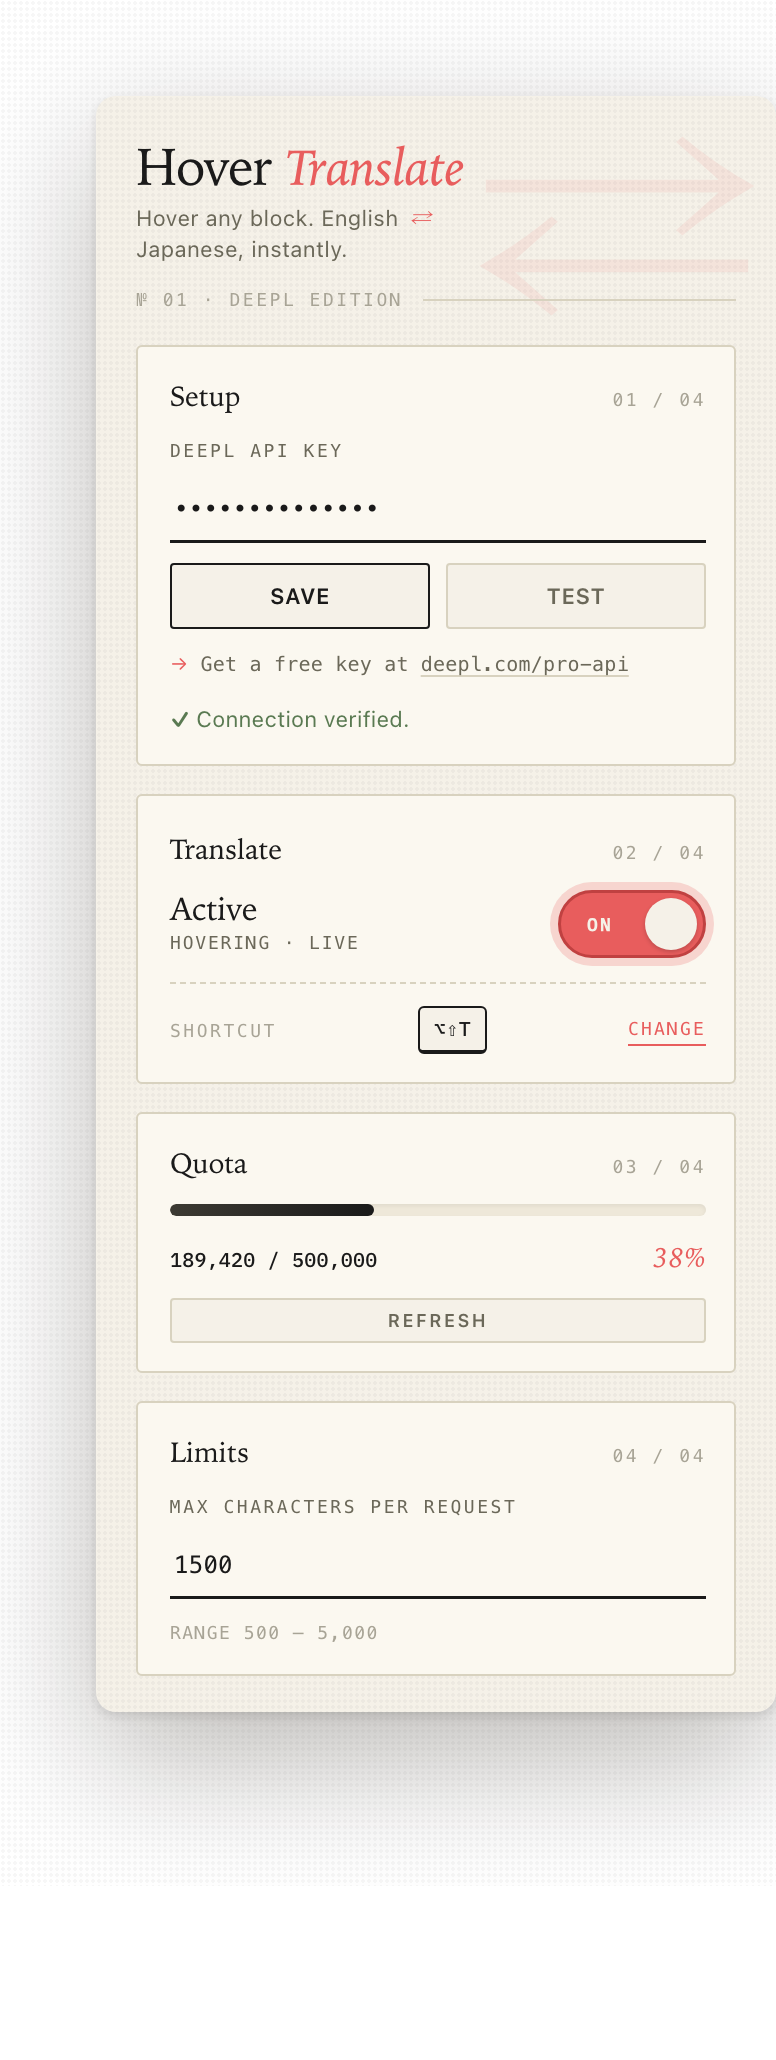
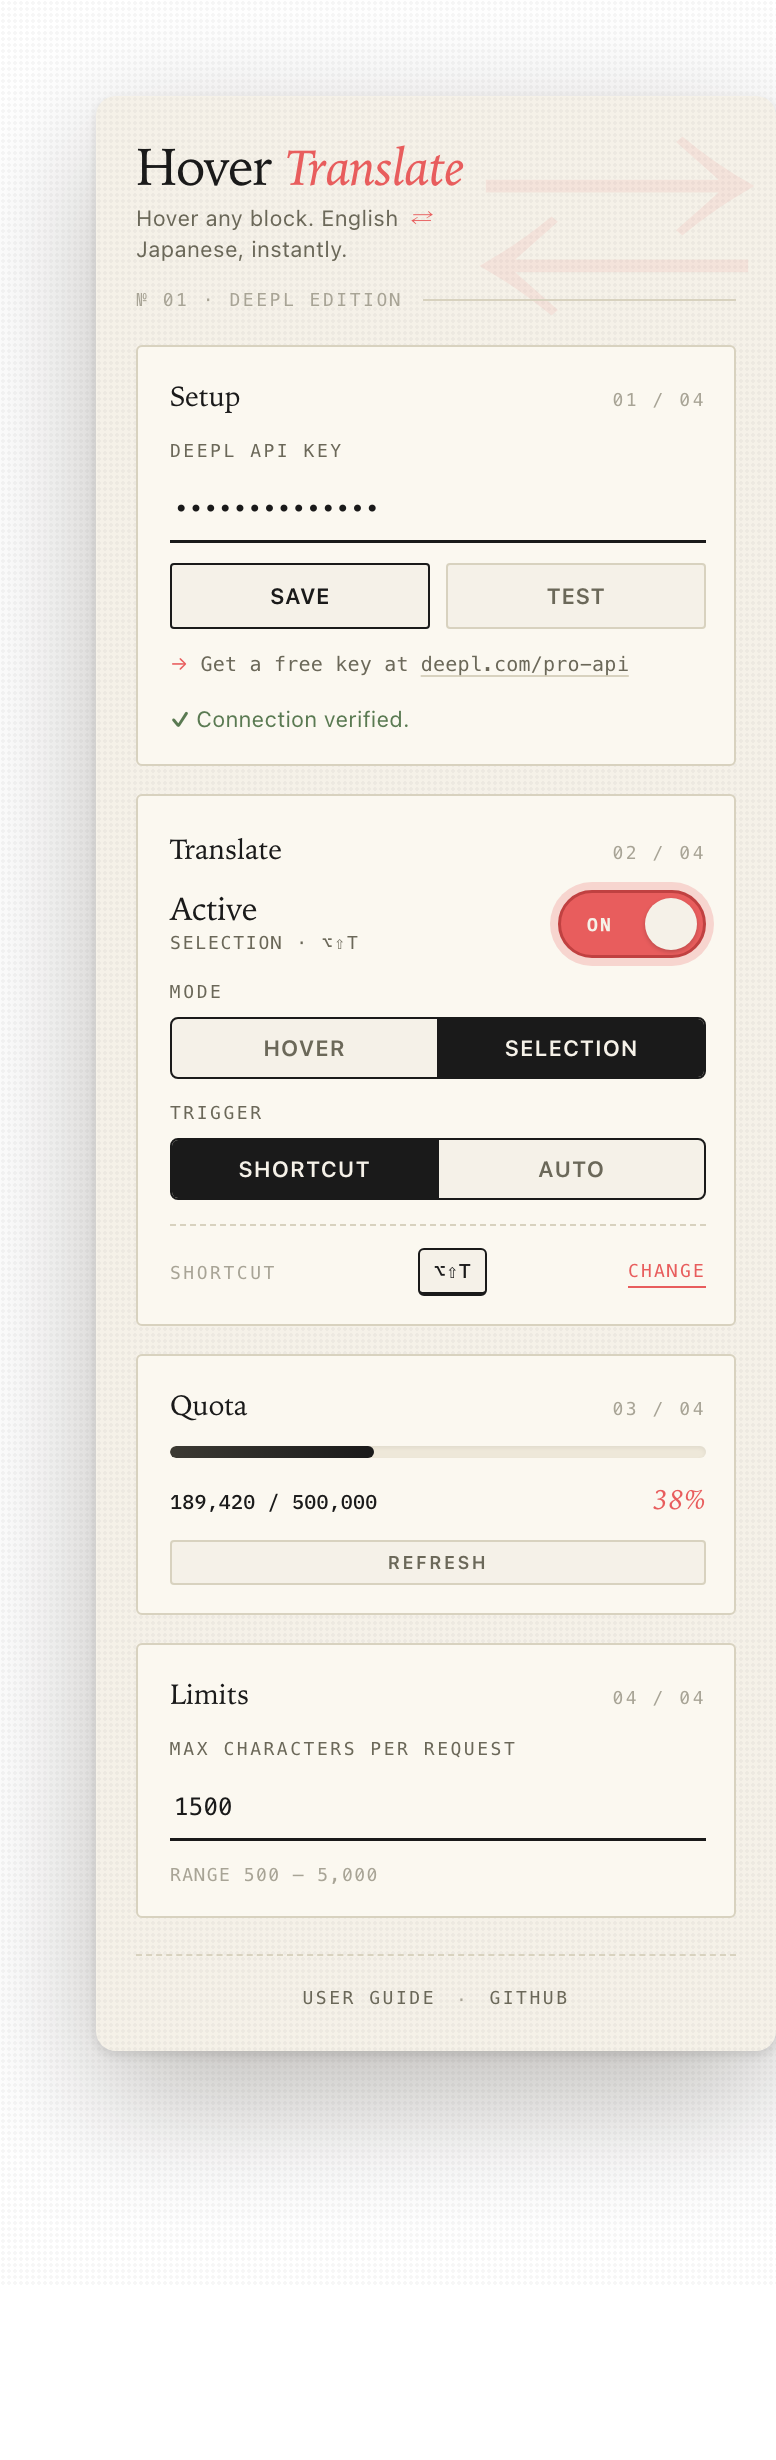
docs: document selection mode and fix broken base-path links
Rewrite Features, Settings, Shortcuts, Getting Started, and the
landing page in both English and Japanese so they reflect the
current popup: mode switch, trigger switch, shortcut scope, 30-second
quota cache, monthly DeepL reset, and the expanded block selectors.

Also repoint all internal LinkCard and inline links to the full
`/hover-translate/...` prefix so they resolve correctly on GitHub
Pages (Starlight's LinkCard does not auto-prefix base), and refresh
the popup screenshots (setup / active / dark / hover) so they show
the new Mode and Trigger controls plus the footer links.

diff --git a/docs/src/content/docs/ja/shortcuts.md b/docs/src/content/docs/ja/shortcuts.md
@@ -5,31 +5,36 @@ description: Hover Translate で使えるキーボードショートカットを
 
 # ショートカット
 
-Hover Translate には、ポップアップを開かずに有効・無効を切り替えられるグローバルショートカットが用意されています。
+Hover Translate のグローバルショートカットは 1 つだけで、Selection モード専用です。
 
 ## 既定のショートカット
 
 既定のショートカットは `Alt+Shift+T` です。macOS、Windows、Linux で共通ですが、macOS では `Alt` は `Option` キーに相当するため、`⌥⇧T` と考えると分かりやすい場合があります。
 
-- このショートカットで、拡張機能の ON/OFF を切り替えます。
-- 切り替え後、アクティブタブの右上に約 1.2 秒間トーストが表示されます。
-- トーストには `Hover Translate: ON` または `Hover Translate: OFF` が表示されます。
+- 拡張機能が有効で、Mode が **Selection**、Trigger が **Shortcut** のときに、**現在の選択範囲**を翻訳します。
+- Hover モード、または Selection + Auto モードでは、これらのモードは手動トリガーを必要としないためショートカットは何もしません。
+
+使い方:
+
+1. ポップアップを開いて DeepL API キーを保存し、拡張機能を ON にして、Mode を **Selection**、Trigger を **Shortcut** にします。
+2. 対応ページで翻訳したいテキストを選択します。
+3. `Alt+Shift+T` を押すと、選択範囲の近くにツールチップで翻訳が表示されます。
 
 ## 動作する場所
 
-このショートカットは、拡張機能のコンテンツスクリプトが動作できる通常の Web ページを前提としています。
+このショートカットはアクティブタブのコンテンツスクリプトを実行するので、コンテンツスクリプトが注入できるページでのみ動作します。
 
-- ホスト権限の対象となる通常のサイトで利用できます。
-- `chrome://` ページや Chrome ウェブストアのような制限付きページでは完全には動作しません。
-- これらのページではコンテンツスクリプトが注入されないため、翻訳 UI やトースト表示も行われません。
+- ホスト権限の対象となる通常の HTTP/HTTPS サイトで利用できます。
+- `chrome://` ページ、Chrome ウェブストア、New Tab ページなどの制限付きページでは**動作しません**。
+- これらのページではショートカットを押しても何も起きません。
 
 ## ショートカットを変更する
 
 1. `chrome://extensions/shortcuts` を開きます。
-2. Hover Translate の **Toggle hover translation on/off** を探します。
+2. Hover Translate の **Translate the current text selection** を探します。
 3. ショートカット編集欄から、任意のキー組み合わせを設定します。
 
-このページは、日本語 UI では「拡張機能のキーボード ショートカット」と表示されることがあります。ポップアップの **Translate** セクションにある **Change** リンクからも開けます。
+このページは、日本語 UI では「拡張機能のキーボード ショートカット」と表示されることがあります。ポップアップの **Translate** セクションにある **Change** リンクからも開けます (Mode が Selection + Shortcut のときにのみ表示)。
 
 ## ショートカットの競合を避ける
 

diff --git a/docs/src/content/docs/shortcuts.md b/docs/src/content/docs/shortcuts.md
@@ -5,31 +5,37 @@ description: Learn the keyboard shortcuts available in Hover Translate.
 
 # Shortcuts
 
-Hover Translate includes one global shortcut so you can enable or disable hover translation without opening the popup.
+Hover Translate has one global keyboard shortcut, dedicated to the Selection mode.
 
 ## Default shortcut
 
 The default shortcut is `Alt+Shift+T` on macOS, Windows, and Linux.
 
-- It toggles the extension between ON and OFF.
-- After each toggle, the active tab shows a toast near the top-right corner for about 1.2 seconds.
-- The toast confirms the new state: `Hover Translate: ON` or `Hover Translate: OFF`.
+- It translates the **current text selection** when the extension is enabled and Mode is set to **Selection** with the **Shortcut** trigger.
+- In Hover mode, or in Selection + Auto mode, the shortcut does nothing because those modes translate automatically.
+- Holding a translation over the same text reuses the in-memory cache when available.
+
+To use the shortcut:
+
+1. Open the popup, save a DeepL API key, turn the extension on, and set Mode to **Selection** and Trigger to **Shortcut**.
+2. On any supported page, highlight the text you want to translate.
+3. Press `Alt+Shift+T`. A tooltip appears next to the selection with the translation.
 
 ## Where it works
 
-The shortcut is meant for normal web pages where the extension can run its content script.
+The shortcut runs the extension's content script in the active tab, so it only works where the content script can inject.
 
-- It works across regular sites that match the extension's host permissions.
-- It does not fully operate on restricted pages such as `chrome://` URLs or the Chrome Web Store.
-- On those pages, the content script is not injected, so the translation UI and toast feedback do not appear.
+- It works across regular HTTP and HTTPS sites that match the extension's host permissions.
+- It does **not** work on restricted Chrome pages such as `chrome://` URLs, the Chrome Web Store, or the New Tab page.
+- On those pages, pressing the shortcut has no effect.
 
 ## Customize the shortcut
 
 1. Open `chrome://extensions/shortcuts`.
-2. Find the Hover Translate entry named **Toggle hover translation on/off**.
+2. Find the Hover Translate entry named **Translate the current text selection**.
 3. Use the shortcut editor to assign a different key combination.
 
-You can also reach this page from the popup by clicking **Change** in the **Translate** section.
+You can also reach this page from the popup by clicking **Change** in the **Translate** section (shown only when Mode is Selection with the Shortcut trigger).
 
 ## Avoid shortcut conflicts
 
